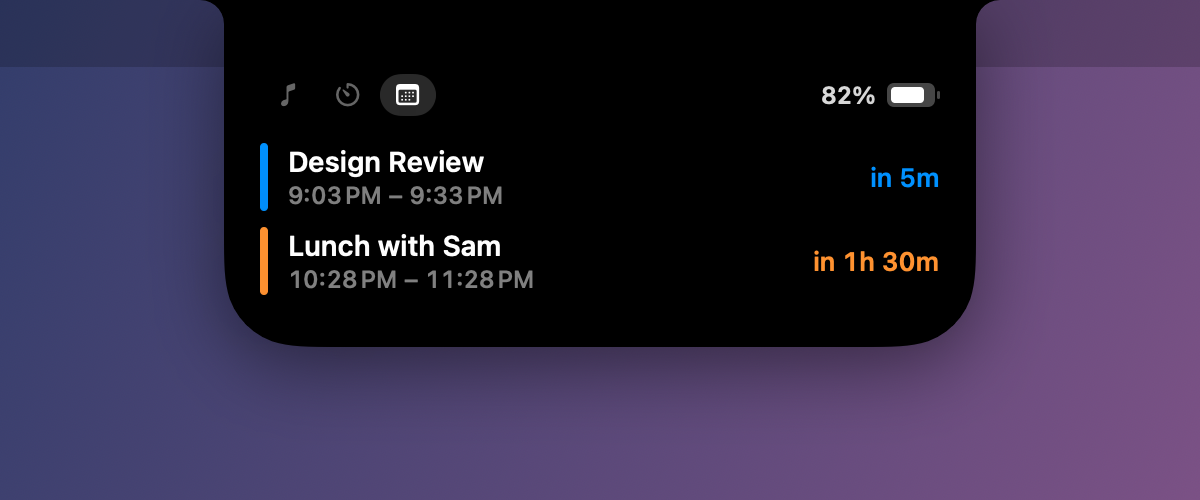
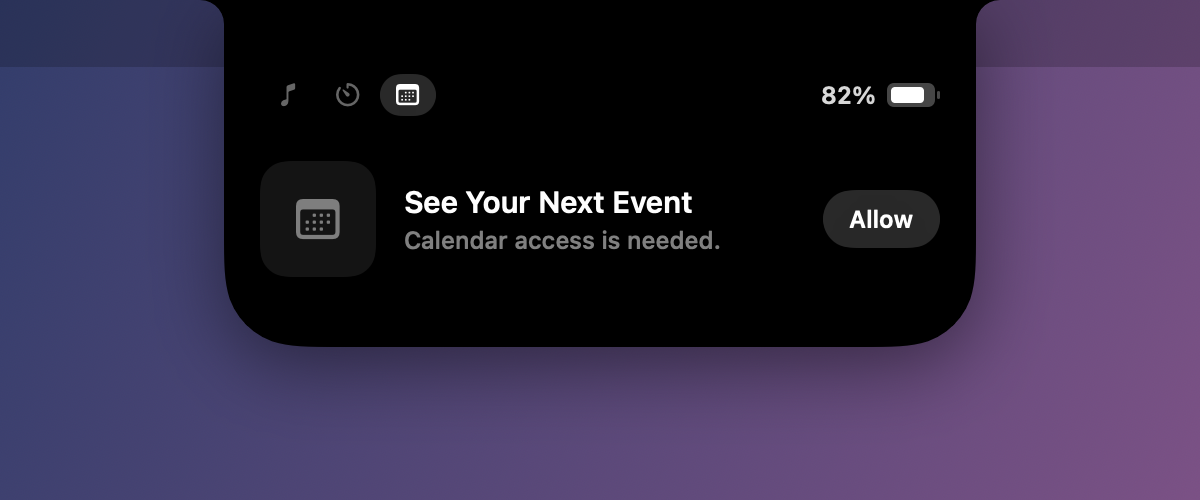
Add calendar shortcut to the music player
The player hides the tab bar, so the Calendar tab was unreachable while
something was playing.

Changed region(s): [[0.2158, 0.3, 0.6167, 0.6], [0.6783, 0.33, 0.8017, 0.54]]

diff --git a/Sources/DynamicIsland/Views/ExpandedView.swift b/Sources/DynamicIsland/Views/ExpandedView.swift
@@ -9,8 +9,9 @@ struct ExpandedView: View {
     var body: some View {
         Group {
             if vm.tab == .media, let track = vm.nowPlaying.track {
-                MediaPlayerView(np: vm.nowPlaying, track: track, showTimer: { vm.tab = .timer },
-                                timerActive: vm.timer.isActive)
+                MediaPlayerView(np: vm.nowPlaying, track: track, showTab: { vm.tab = $0 },
+                                timerActive: vm.timer.isActive,
+                                eventSoon: vm.calendar.imminentEvent() != nil)
                     .padding(.top, vm.contentTop)
             } else {
                 VStack(spacing: 0) {
@@ -90,8 +91,10 @@ private struct BatteryHeader: View {
 struct MediaPlayerView: View {
     @ObservedObject var np: NowPlayingService
     let track: TrackInfo
-    let showTimer: () -> Void
+    /// The player hides the tab bar, so it carries its own shortcuts to the other tabs.
+    let showTab: (IslandTab) -> Void
     let timerActive: Bool
+    let eventSoon: Bool
 
     var body: some View {
         VStack(spacing: 0) {
@@ -123,20 +126,14 @@ struct MediaPlayerView: View {
                 .padding(.top, 9)
 
             ZStack {
-                HStack(spacing: 34) {
+                HStack(spacing: 24) {
                     transport("backward.fill", size: 19) { np.previous() }
                     transport(np.isPlaying ? "pause.fill" : "play.fill", size: 27) { np.playPause() }
                     transport("forward.fill", size: 19) { np.next() }
                 }
-                HStack {
-                    Button(action: showTimer) {
-                        Image(systemName: "timer")
-                            .font(.system(size: 15, weight: .semibold))
-                            .foregroundStyle(timerActive ? Color.orange : Color.white.opacity(0.55))
-                            .frame(width: 32, height: 32)
-                            .contentShape(Rectangle())
-                    }
-                    .buttonStyle(PressableButtonStyle())
+                HStack(spacing: 0) {
+                    tabShortcut(.timer, tint: timerActive ? Color.orange : Color.white.opacity(0.55))
+                    tabShortcut(.calendar, tint: eventSoon ? Color.red : Color.white.opacity(0.55))
                     Spacer()
                     if let icon = np.sourceIcon {
                         // Which app is playing (Safari, Chrome, Music, ...); click to open it.
@@ -153,6 +150,17 @@ struct MediaPlayerView: View {
             }
             .padding(.top, 3)
         }
+    }
+
+    private func tabShortcut(_ tab: IslandTab, tint: Color) -> some View {
+        Button { showTab(tab) } label: {
+            Image(systemName: tab.symbol)
+                .font(.system(size: 14, weight: .semibold))
+                .foregroundStyle(tint)
+                .frame(width: 30, height: 32)
+                .contentShape(Rectangle())
+        }
+        .buttonStyle(PressableButtonStyle())
     }
 
     private func transport(_ symbol: String, size: CGFloat, action: @escaping () -> Void) -> some View {

diff --git a/progress.md b/progress.md
@@ -77,6 +77,7 @@ Everything below was checked only in rendered snapshots or by reading system dat
 
 ## Fix history
 
+- **2026-11-16 · Calendar unreachable while music plays.** The player view replaces the tab bar, and it only had a timer shortcut. It now has timer and calendar shortcuts at the bottom-left (calendar turns red when an event is within 10 minutes). Rule: any new tab needs a shortcut in `MediaPlayerView` too. Not yet in a release (latest is v1.1.2).
 - **2026-11-15 · Repeated permission prompts.** Causes: (1) at launch `refresh()` ran the AppleScript fallback before the media helper had reported, triggering "control Music"; AppleScript is now used only if the helper is missing or has failed for good (`bridge.isUsable`). (2) Calendar and Focus access were requested at every launch; Calendar is now requested only from the "Allow" button in the Calendar tab. (3) The app is ad-hoc signed, so every rebuild is a "new app" to macOS and loses earlier grants.
 - **2026-11-15 · Notch collisions.** At 400 pt wide the island left only ~77 pt beside the 185 pt notch: the title sat jammed under it and the third tab was hidden behind it. Expanded content now starts below the notch (`contentTop`). Found by drawing the notch into snapshots: `SHOW_NOTCH=1 DynamicIsland --snapshot <dir>`.
 - **2026-11-15 · Artwork not updating between albums.** `-[NSData hash]` only looks at the first bytes, which match across JPEGs. The helper now sends a change counter.
